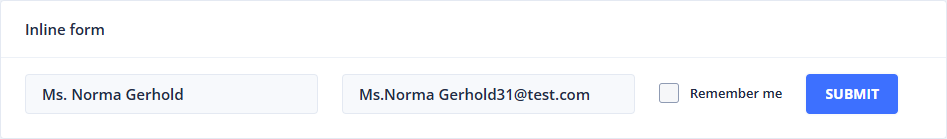
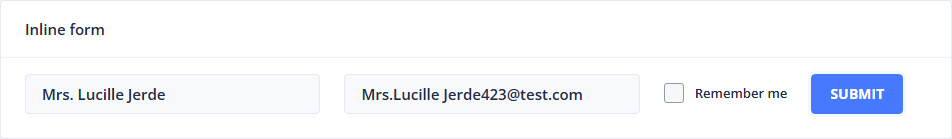
Configuration File Adjustments

diff --git a/playwright.config.ts b/playwright.config.ts
@@ -2,54 +2,34 @@
 import { defineConfig, devices } from '@playwright/test';
 import type { TestOptions } from './test-options';
 
-/**
- * Read environment variables from file.
- * https://github.com/motdotla/dotenv
- */
-// import dotenv from 'dotenv';
-// import path from 'path';
-// dotenv.config({ path: path.resolve(__dirname, '.env') });
 require('dotenv').config();
 
-/**
- * See https://playwright.dev/docs/test-configuration.
- */
 export default defineConfig<TestOptions>({
-  //timeout: 10000,
-  //globalTimeout: 60000,
-  testDir: './tests',
-  /* Run tests in files in parallel */
-  fullyParallel: false,
-  /* Fail the build on CI if you accidentally left test.only in the source code. */
-  forbidOnly: !!process.env.CI,
-  /* Retry on CI only */
-  retries: process.env.CI ? 2 : 1,
-  /* Opt out of parallel tests on CI. */
-  workers: process.env.CI ? 1 : undefined,
-  /* Reporter to use. See https://playwright.dev/docs/test-reporters */
+  timeout: 40000,
+  globalTimeout: 60000,
+  expect:{
+    timeout: 2000
+  },
+
+  retries: 1,
   reporter: 'html',
-  /* Shared settings for all the projects below. See https://playwright.dev/docs/api/class-testoptions. */
+
   use: {
-    /* Base URL to use in actions like `await page.goto('')`. */
     //baseURL: 'http://localhost:4200/',
     globalsQaURL: 'https://www.globalsqa.com/demo-site/draganddrop/',
     baseURL: process.env.DEV === '1' ? 'http://localhost:4201/'
            : process.env.STAGING == '1' ? 'http://localhost:4202/'
            : 'http://localhost:4200/',
 
-    /* Collect trace when retrying the failed test. See https://playwright.dev/docs/trace-viewer */
-    //actionTimeout: 5000,
-    //navigationTimeout: 5000,
-    //headless: false,
     trace: 'on-first-retry',
-    video: 'on'
-    // {
-    //   mode: 'on',
-    //   size: {width: 1920, height: 1080}
-    // }
+    actionTimeout: 20000,
+    navigationTimeout: 25000,
+    video: {
+      mode: 'off',
+      size: {width: 1920, height: 1080}
+    },
   },
 
-  /* Configure projects for major browsers */
   projects: [
     {
       name: 'dev',
@@ -67,45 +47,19 @@ export default defineConfig<TestOptions>({
     },
     {
       name: 'chromium',
-      use: { ...devices['Desktop Chrome'] },
     },
-
     {
       name: 'firefox',
-      use: { ...devices['Desktop Firefox'] },
+      use: { 
+        browserName: 'firefox'
+      },
     },
-
-    // {
-    //   name: 'webkit',
-    //   use: { ...devices['Desktop Safari'] },
-    // },
-
-    /* Test against mobile viewports. */
-    // {
-    //   name: 'Mobile Chrome',
-    //   use: { ...devices['Pixel 5'] },
-    // },
-    // {
-    //   name: 'Mobile Safari',
-    //   use: { ...devices['iPhone 12'] },
-    // },
-
-    /* Test against branded browsers. */
-    // {
-    //   name: 'Microsoft Edge',
-    //   use: { ...devices['Desktop Edge'], channel: 'msedge' },
-    // },
-    // {
-    //   name: 'Google Chrome',
-    //   use: { ...devices['Desktop Chrome'], channel: 'chrome' },
-    // },
+    {
+      name: 'pageObjectFullScreen',
+      testMatch: 'usePageObjects.spec.ts',
+      use: { 
+        viewport: {width: 1920, height: 1080}
+      },
+    },
   ],
-
-  /* Run your local dev server before starting the tests */
-  webServer: {
-    command: 'npm run start',
-    url: 'http://localhost:4200',
-    reuseExistingServer: !process.env.CI,
-    timeout: 120 * 1000,
-  },
 });

diff --git a/playwright-prod.config.ts b/playwright-prod.config.ts
@@ -1,0 +1,16 @@
+import { defineConfig, devices } from '@playwright/test';
+import type { TestOptions } from './test-options';
+
+require('dotenv').config();
+
+export default defineConfig<TestOptions>({
+  use: {
+    globalsQaURL: 'https://www.globalsqa.com/demo-site/draganddrop/',
+    baseURL: 'http://localhost:4200/',
+  },
+  projects: [
+    {
+      name: 'chromium',
+    }
+  ],
+});

diff --git a/tests/testHooks.spec.ts b/tests/testHooks.spec.ts
@@ -4,7 +4,7 @@ test.beforeEach(async ({ page }) => {
   await page.goto('/')
 })
 
-test.describe.only('suite1', () => {
+test.describe('suite1', () => {
   test.beforeEach(async ({ page }) => {
     await page.getByText('Forms', {exact: true}).click()
     //await page.pause(); // Pauses the test execution and opens the Playwright Inspector for debugging.
